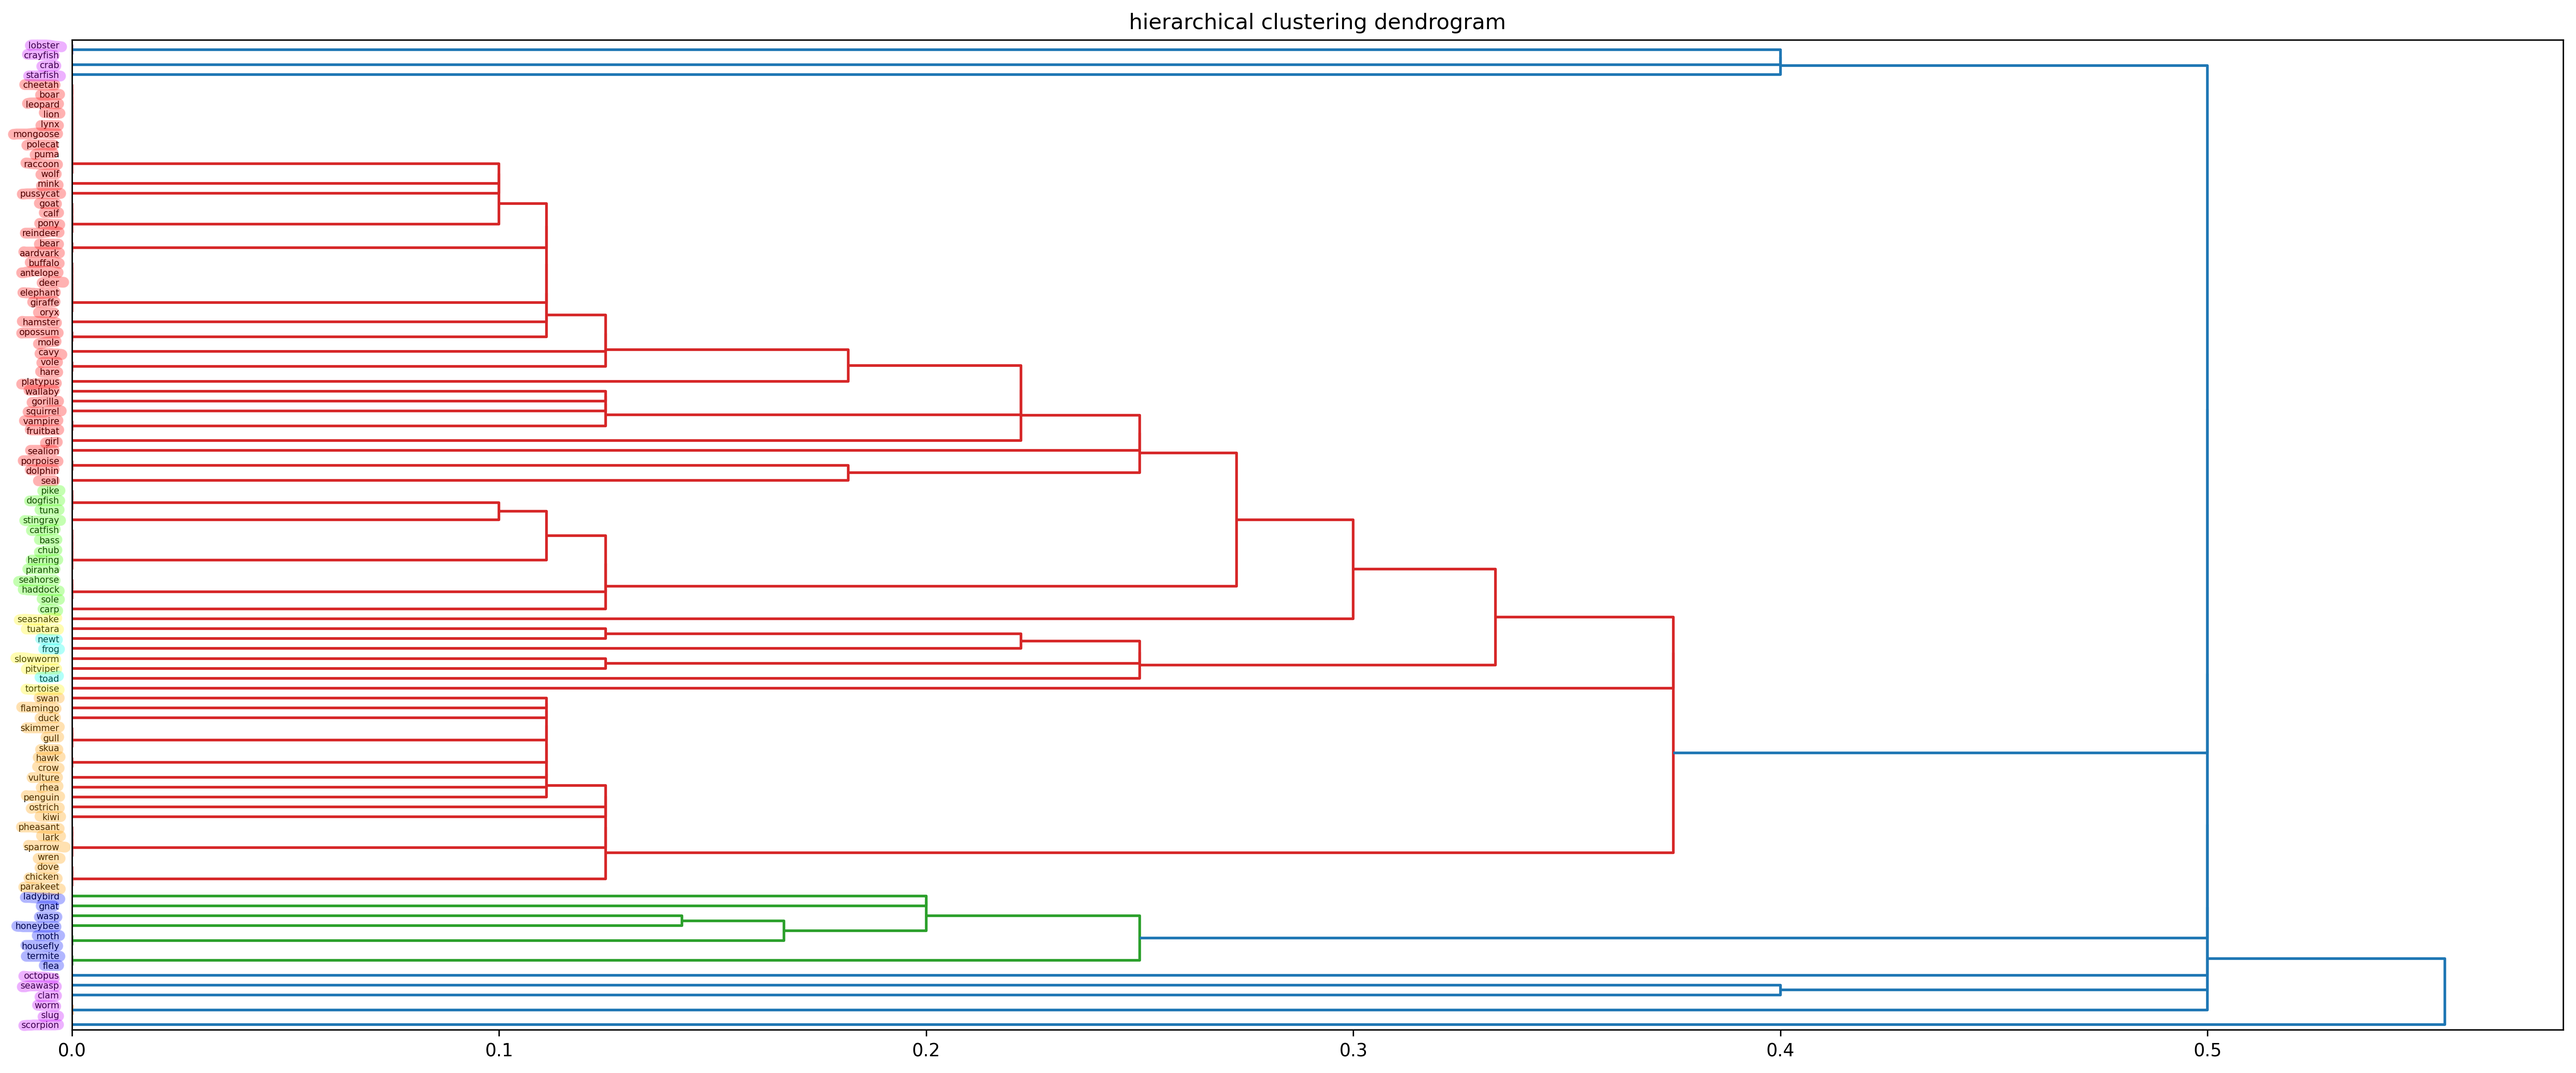
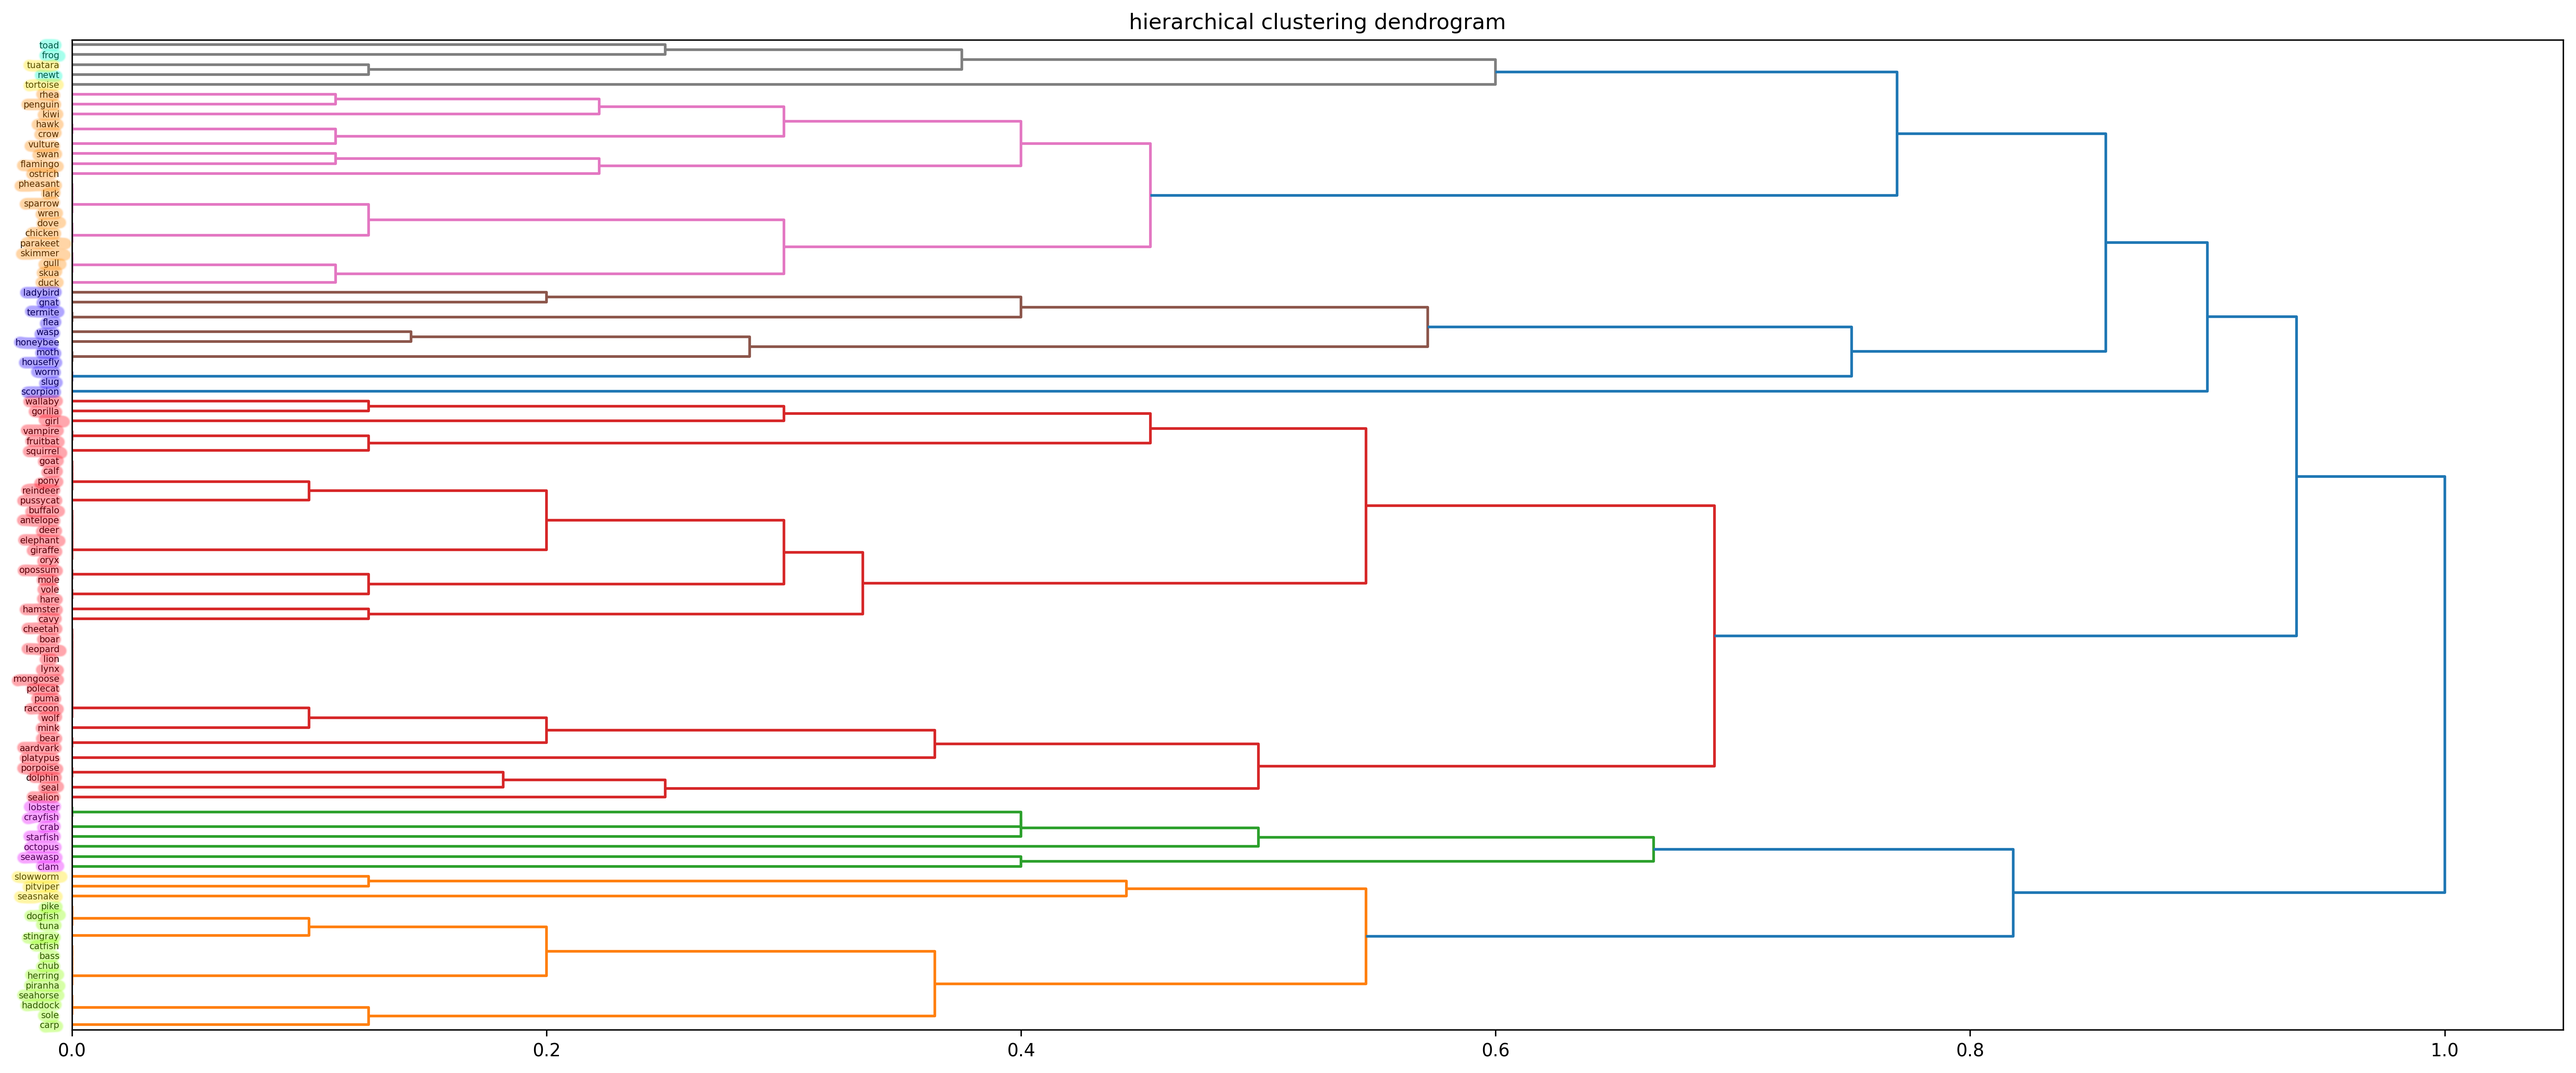
change linkage to complete

diff --git a/dendrogram/dendrogram.py b/dendrogram/dendrogram.py
@@ -23,7 +23,6 @@ animal_names = zoo.data.ids
 # remove the accursed frog
 # get index of first match of frog
 dupe_index = (animal_names['animal_name'] == 'frog').idxmax()
-print(dupe_index)
 
 animal_names.drop(dupe_index, inplace=True)
 X.drop(dupe_index, inplace=True)
@@ -42,7 +41,7 @@ X = pd.concat([X, legs_oh], axis=1)
 # print(X)
 # print(animal_names)
 
-Z = linkage(pdist(X, 'jaccard'))
+Z = linkage(pdist(X, 'jaccard'), method='complete')
 
 plt.figure(figsize=(25,10))
 plt.title("hierarchical clustering dendrogram")
